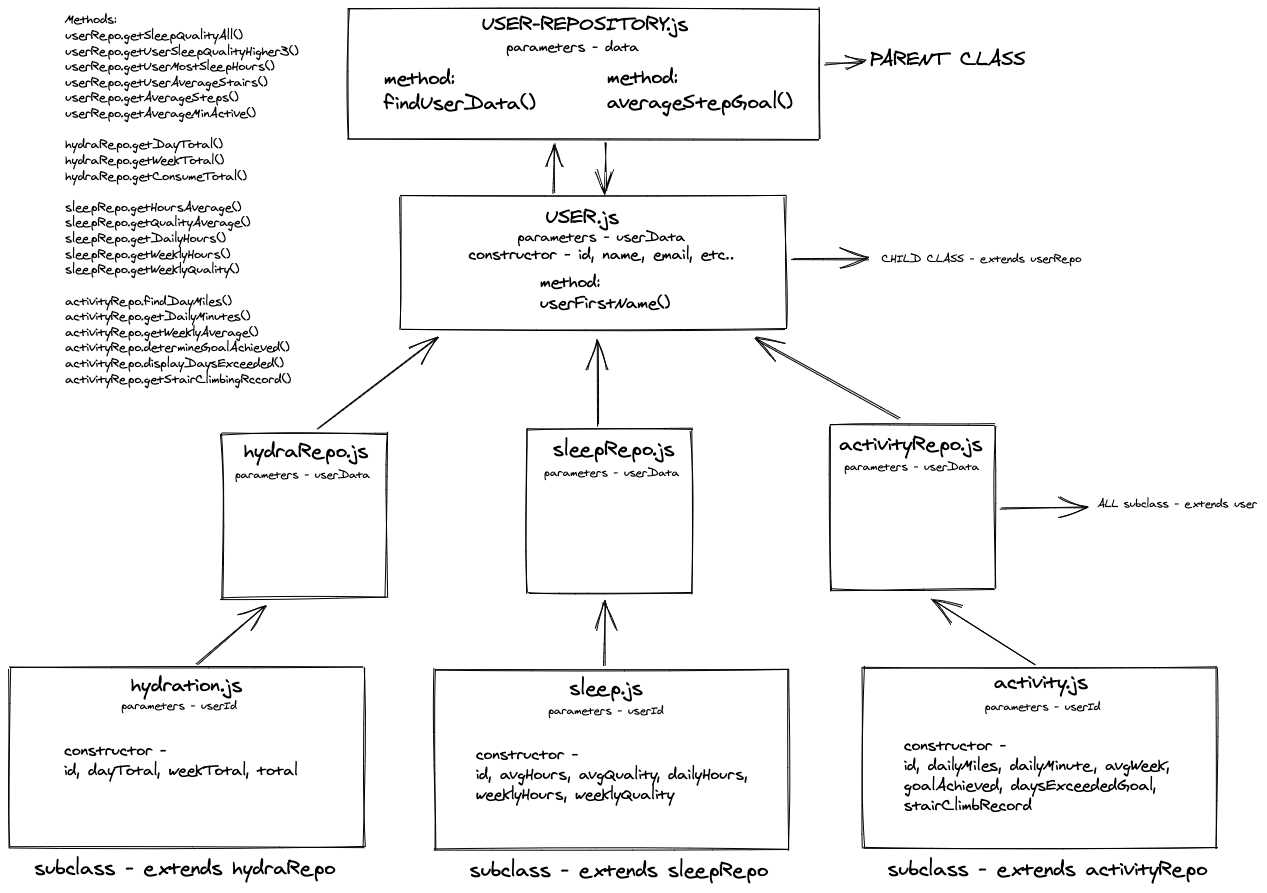
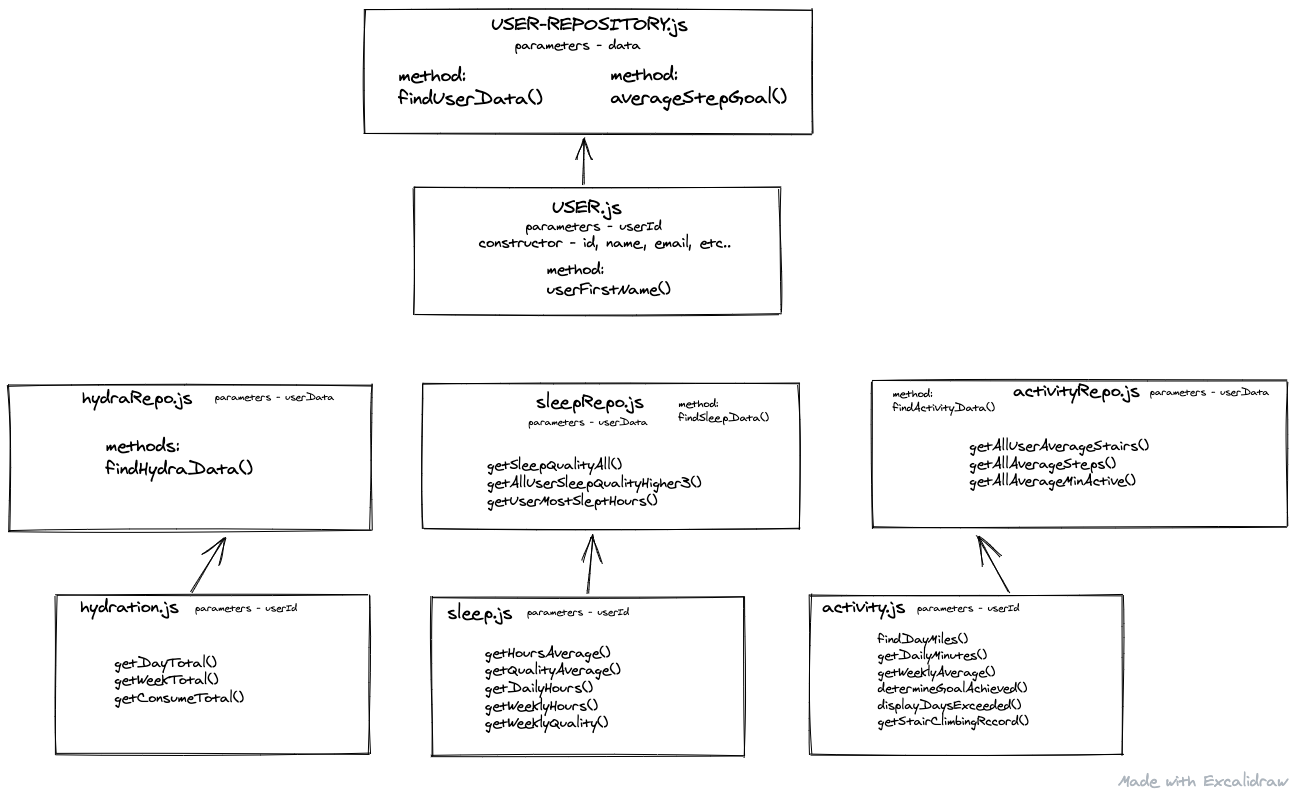
set up sleep test shell, updated test data set, updated arch png

diff --git a/test/test-data.js b/test/test-data.js
@@ -71,98 +71,186 @@ const activityData = [
       "flightsOfStairs": 32
     }]
 
-    const hydrationData = [
-      {
-        "userID": 1,
-        "date": "2019/06/15",
-        "numOunces": 37
-      },
-      {
-        "userID": 2,
-        "date": "2019/06/15",
-        "numOunces": 75
-      },
-      {
-        "userID": 3,
-        "date": "2019/06/15",
-        "numOunces": 47
-      },
-      {
-        "userID": 4,
-        "date": "2019/06/15",
-        "numOunces": 85
-      },
-      {
-        "userID": 5,
-        "date": "2019/06/15",
-        "numOunces": 42
-      },
-      {
-        "userID": 6,
-        "date": "2019/06/15",
-        "numOunces": 87
-      },
-      {
-        "userID": 7,
-        "date": "2019/06/15",
-        "numOunces": 94
-      },
-      {
-        "userID": 8,
-        "date": "2019/06/15",
-        "numOunces": 84
-      },
-      {
-        "userID": 9,
-        "date": "2019/06/15",
-        "numOunces": 39
-      },
-      {
-        "userID": 10,
-        "date": "2019/06/15",
-        "numOunces": 75
-      }]
+const hydrationData = [
+  {
+      "userID": 1,
+      "date": "2019/06/15",
+      "numOunces": 37
+  },
+  {
+      "userID": 2,
+      "date": "2019/06/15",
+      "numOunces": 75
+  },
+  {
+      "userID": 3,
+      "date": "2019/06/15",
+      "numOunces": 47
+  },
+  {
+      "userID": 4,
+      "date": "2019/06/15",
+      "numOunces": 85
+  },
+  {
+      "userID": 5,
+      "date": "2019/06/15",
+      "numOunces": 42
+  },
+  {
+      "userID": 6,
+      "date": "2019/06/15",
+      "numOunces": 87
+  },
+  {
+      "userID": 7,
+      "date": "2019/06/15",
+      "numOunces": 94
+  },
+  {
+      "userID": 8,
+      "date": "2019/06/15",
+      "numOunces": 84
+  },
+  {
+      "userID": 9,
+      "date": "2019/06/15",
+      "numOunces": 39
+    },
+  {
+      "userID": 10,
+      "date": "2019/06/15",
+      "numOunces": 75
+}]
 
-      const sleepData = [
-        {
-          "userID": 1,
-          "date": "2019/06/15",
-          "hoursSlept": 6.1,
-          "sleepQuality": 2.2
-        },
-        {
-          "userID": 2,
-          "date": "2019/06/15",
-          "hoursSlept": 7,
-          "sleepQuality": 4.7
-        },
-        {
-          "userID": 3,
-          "date": "2019/06/15",
-          "hoursSlept": 10.8,
-          "sleepQuality": 4.7
-        },
-        {
-          "userID": 4,
-          "date": "2019/06/15",
-          "hoursSlept": 5.4,
-          "sleepQuality": 3
-        },
-        {
-          "userID": 5,
-          "date": "2019/06/15",
-          "hoursSlept": 4.1,
-          "sleepQuality": 3.6
-        },
-        {
-          "userID": 6,
-          "date": "2019/06/15",
-          "hoursSlept": 9.6,
-          "sleepQuality": 2.9
-        }]
+const sleepData = [
+  {
+    "userID": 1,
+    "date": "2019/06/15",
+    "hoursSlept": 6.1,
+    "sleepQuality": 2.2
+  },
+  {
+    "userID": 2,
+    "date": "2019/06/15",
+    "hoursSlept": 7,
+    "sleepQuality": 4.7
+  },
+  {
+    "userID": 3,
+    "date": "2019/06/15",
+    "hoursSlept": 10.8,
+    "sleepQuality": 4.7
+  },
+  {
+    "userID": 1,
+    "date": "2019/06/16",
+    "hoursSlept": 4.1,
+    "sleepQuality": 3.8
+  },
+  {
+    "userID": 2,
+    "date": "2019/06/16",
+    "hoursSlept": 7.5,
+    "sleepQuality": 3.8
+  },
+  {
+    "userID": 3,
+    "date": "2019/06/16",
+    "hoursSlept": 10.7,
+    "sleepQuality": 3.4
+  },
+  {
+    "userID": 1,
+    "date": "2019/06/17",
+    "hoursSlept": 8,
+    "sleepQuality": 2.6
+  },
+  {
+    "userID": 2,
+    "date": "2019/06/17",
+    "hoursSlept": 5.7,
+    "sleepQuality": 3
+  },
+  {
+    "userID": 3,
+    "date": "2019/06/17",
+    "hoursSlept": 5.3,
+    "sleepQuality": 4.9
+  },
+  {
+    "userID": 1,
+    "date": "2019/06/18",
+    "hoursSlept": 10.4,
+    "sleepQuality": 3.1
+  },
+  {
+    "userID": 2,
+    "date": "2019/06/18",
+    "hoursSlept": 10.8,
+    "sleepQuality": 3.2
+  },
+  {
+    "userID": 3,
+    "date": "2019/06/18",
+    "hoursSlept": 9.8,
+    "sleepQuality": 2.6
+  },
+  {
+    "userID": 1,
+    "date": "2019/06/19",
+    "hoursSlept": 10.7,
+    "sleepQuality": 1.2
+  },
+  {
+    "userID": 2,
+    "date": "2019/06/19",
+    "hoursSlept": 9.6,
+    "sleepQuality": 2.5
+  },
+  {
+    "userID": 3,
+    "date": "2019/06/19",
+    "hoursSlept": 7.2,
+    "sleepQuality": 3.4
+  },
+  {
+    "userID": 1,
+    "date": "2019/06/20",
+    "hoursSlept": 9.3,
+    "sleepQuality": 1.2
+  },
+  {
+    "userID": 2,
+    "date": "2019/06/20",
+    "hoursSlept": 10.1,
+    "sleepQuality": 2.4
+  },
+  {
+    "userID": 3,
+    "date": "2019/06/20",
+    "hoursSlept": 9.4,
+    "sleepQuality": 1.2
+  },
+  {
+    "userID": 1,
+    "date": "2019/06/21",
+    "hoursSlept": 7.8,
+    "sleepQuality": 4.2
+  },
+  {
+    "userID": 2,
+    "date": "2019/06/21",
+    "hoursSlept": 4.3,
+    "sleepQuality": 4.8
+  },
+  {
+    "userID": 3,
+    "date": "2019/06/21",
+    "hoursSlept": 8.9,
+    "sleepQuality": 3.7
+  }]
 
-module.exports = {userData}
-  // ,
-  // activityData,
-  // hydrationData,
-  // sleepData
+module.exports = {userData, hydrationData, sleepData }
+
+  // activityData

diff --git a/test/sleep-test.js b/test/sleep-test.js
@@ -1,0 +1,23 @@
+const testData = require('./test-data')
+const chai = require('chai')
+const expect = chai.expect
+const assert = chai.assert
+
+const SleepRepo = require('../src/sleepRepo')
+const UserSleep = require('../src/userSleep')
+
+describe('SleepRepo and UserSleep', () => {
+  let sleepData;
+  let userSleep;
+  let sleepRepo;
+
+  beforeEach('Should create instance of SleepRepo and UserSleep, and provide sleep data', () => {
+    sleepData = testData['sleepData']
+    userSleep = new UserSleep(id)
+    sleepRepo = new SleepRepo(sleepData);
+  })
+
+  it('', () => {
+    
+  })
+})

diff --git a/src/sleepRepo.js b/src/sleepRepo.js
@@ -1,0 +1,7 @@
+class SleepRepo {
+  
+}
+
+if (typeof module !== 'undefined') {
+  module.exports = SleepRepo
+}

diff --git a/src/userSleep.js b/src/userSleep.js
@@ -1,0 +1,7 @@
+class UserSleep {
+  
+}
+
+if (typeof module !== 'undefined') {
+  module.exports = UserSleep
+}
